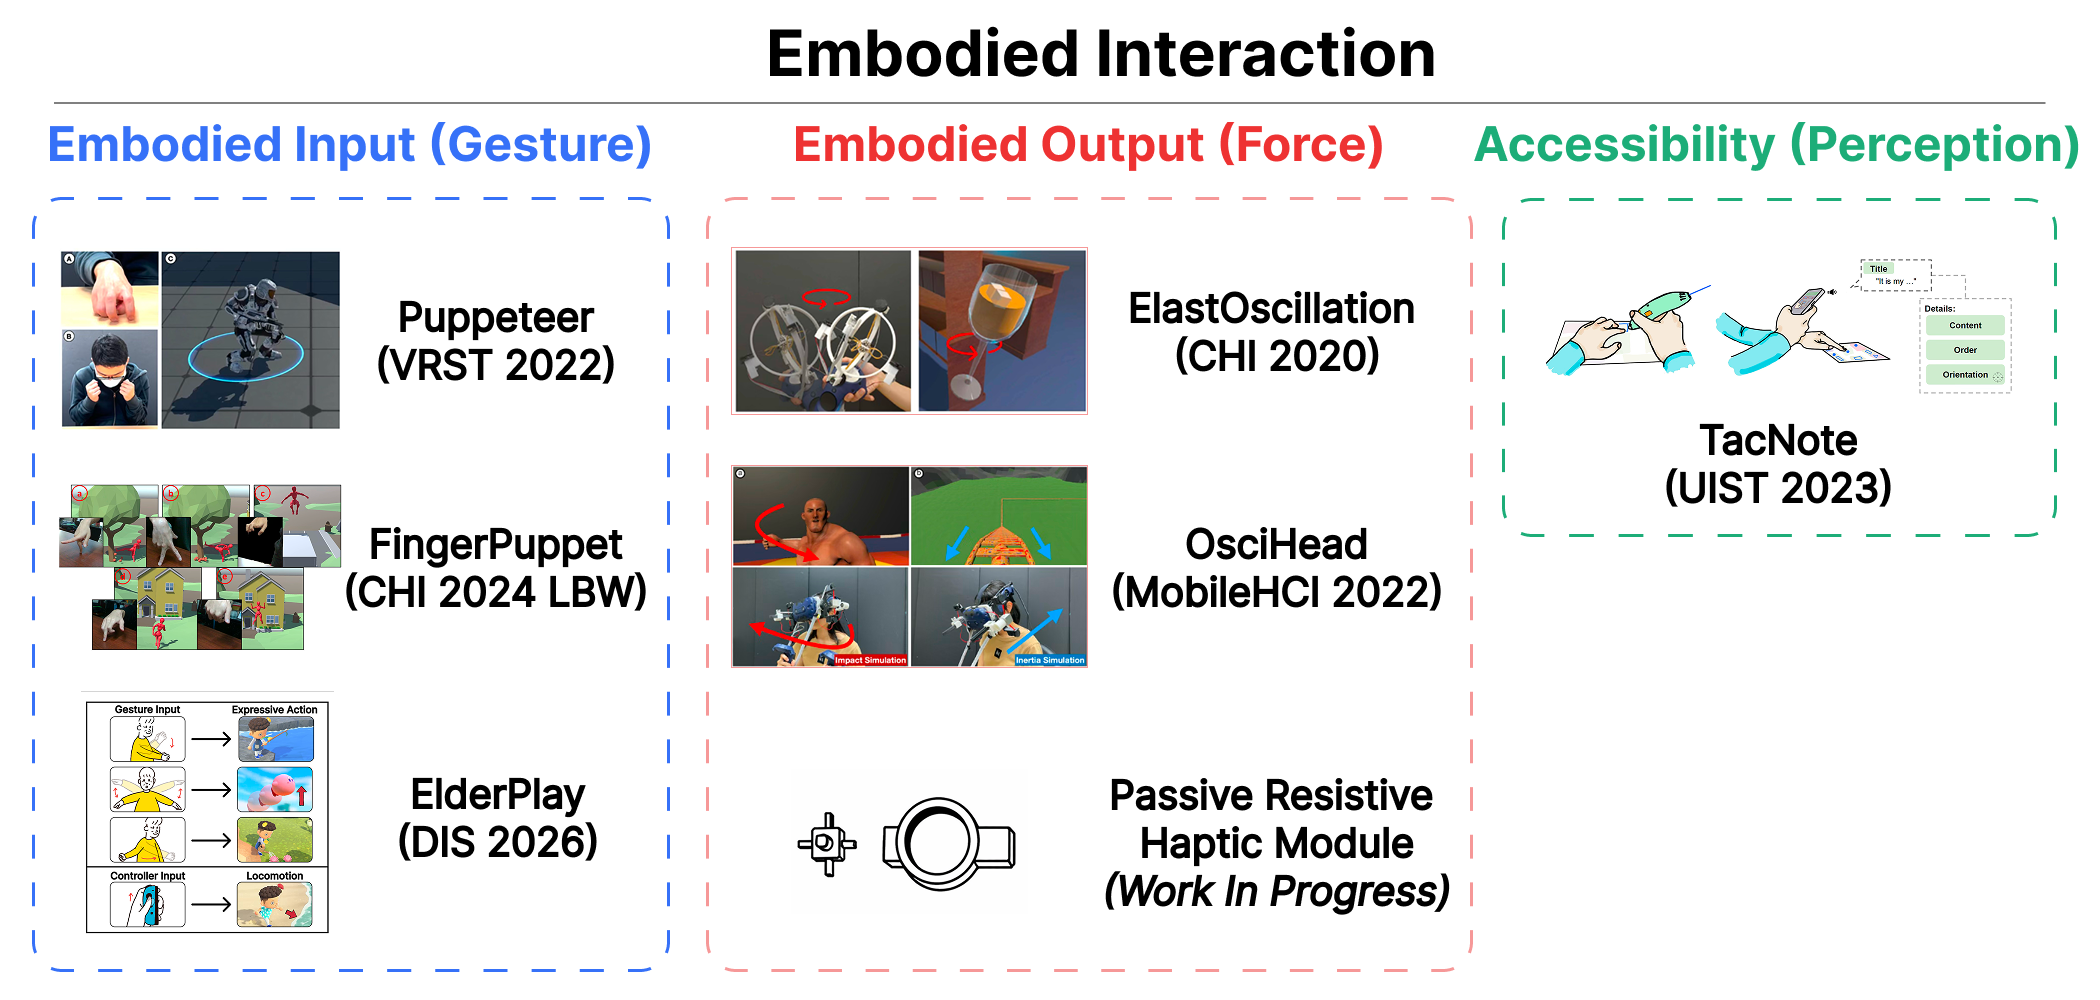
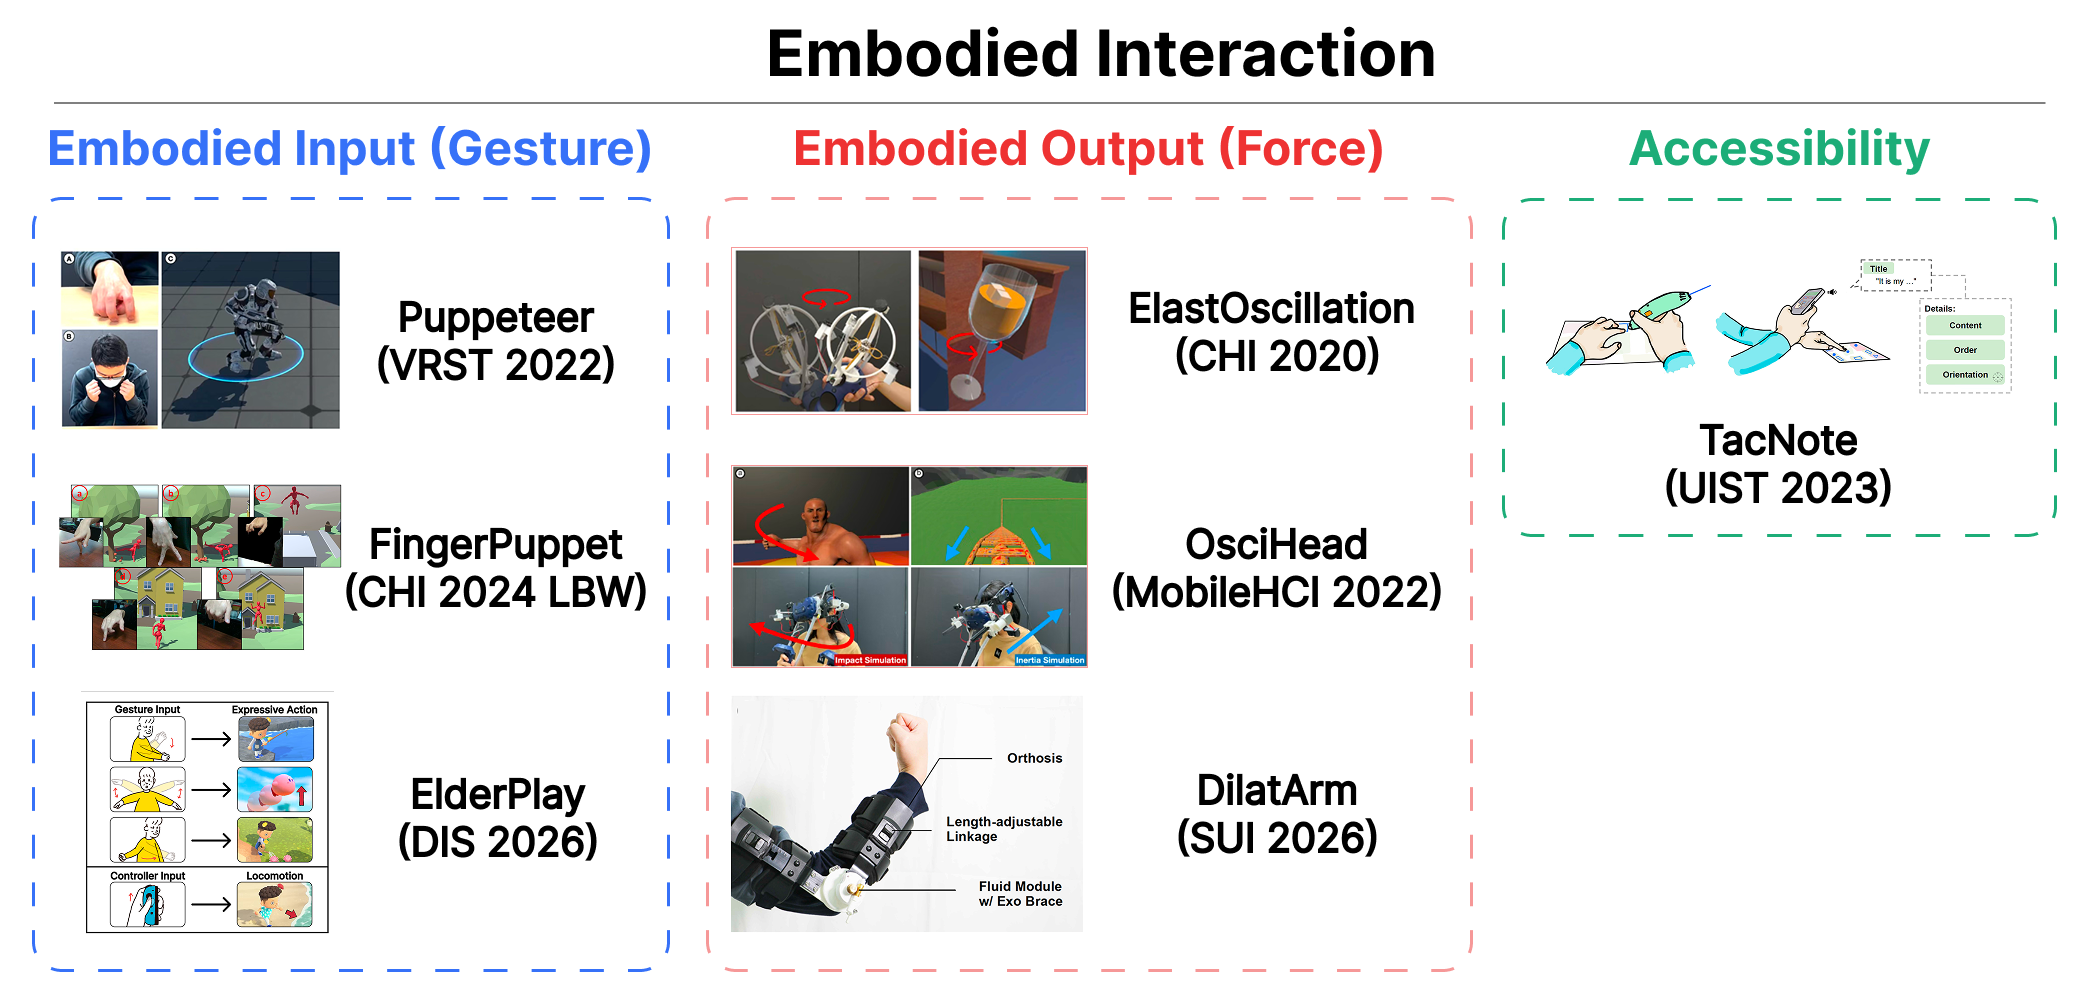
update CV with workshop experience

diff --git a/index.html b/index.html
@@ -138,10 +138,27 @@
 			<section class="ftco-section-no-padding bg-light" id="publications">
 	    	<div class="container">
 	    		<div class="row d-flex">
-
 	    			<div class="col-lg-12">
 	    				<h2 class="mb-4"><b>Publications</b></h2>
 	    				<div class="row">
+
+	    					<div class="col-md-12">
+			    				<div class="blog-entry ftco-animate d-md-flex">
+										<a class="img img-2" style="background-image: url(pic/#.gif);"></a>
+										<div class="text text-2 p-4">
+							          <h3 class="mb-2"><a href="pages/#.html" id="hover">DilatArm: An Accessible, Low-cost Passive Exoskeleton using Dilatant Fluid for Viscosity Feedback during Spatial Movement</a></h3>
+							          <p class="mb-4"> <b>Ching-Wen Hung</b>, Eric Chen, Hamza Shah Khan, Po-Ying Hsu, Bing-Yu Chen, Jun Nishida<br/>
+							          SUI 2026 Paper</p>
+							          <p>
+							          	TBD
+							          	<!-- [<a href="https://dl.acm.org/doi/10.1145/3800645.3813004" target="_blank" class="btn-custom">paper</a>]
+							          	[<a href="https://youtu.be/PV33f3fwZoQ?si=tdrXqtRPiCEg7kg4" target="_blank" class="btn-custom">video</a>]
+							          	[<a href="https://youtu.be/gAscd7ZN1Wc?si=McWDFvrh8U7eSMso" target="_blank" class="btn-custom">30s video</a>] -->
+							          </p>
+					            </div>
+									</div>
+			    			</div>
+
 	    					<div class="col-md-12">
 			    				<div class="blog-entry ftco-animate d-md-flex">
 									<a class="img img-2" style="background-image: url(pic/ElderPlay.gif);"></a>
